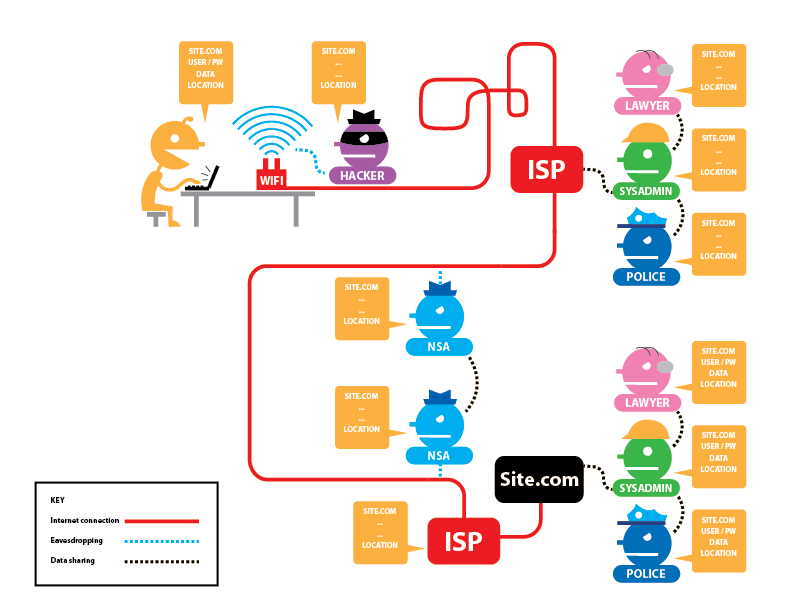
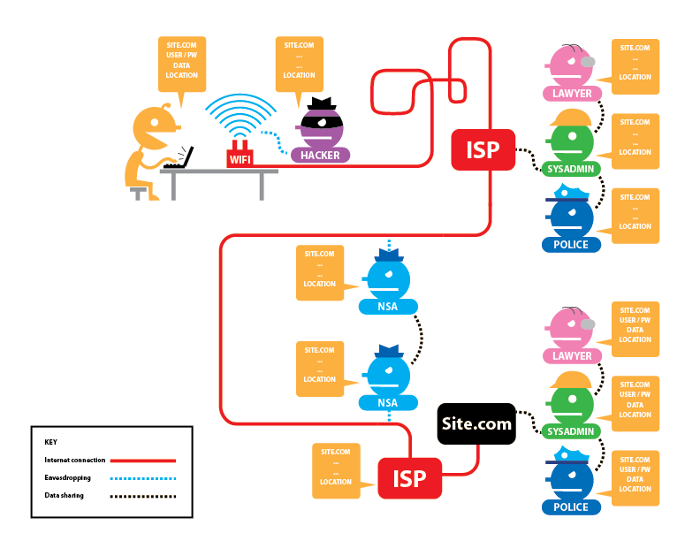
Finalizing slides. Adding communication diagrams.

diff --git a/src/slides.md b/src/slides.md
@@ -18,9 +18,24 @@
 
 ---
 
+# Story 1
+
+
+---
+
+# Story 2
+
+---
+
 ## Satyendra Dubey
 
 .center[![Satyendra Dubey](images/satyendra_dubey.jpg)]
+
+
+---
+
+# Story 3
+
 
 ---
 
@@ -28,34 +43,34 @@
 
 .center[![State Bank of India](images/sbi_bank.jpg)]
 
+
 ---
 
-## No Tor No HTTPS
+## HTTP ❌ HTTPS ❌
 
 ![No Tor No HTTPS](images/no_tor_no_https.png)
 
 ---
 
-## No Tor Yes HTTPS
+## HTTP ❌ HTTPS ✔
 
 ![No Tor Yes HTTPS](images/no_tor_yes_https.png)
 
 
 ---
 
-## Yes Tor No HTTPS
+## Tor ✔ HTTPS ❌
 
 ![Yes Tor No HTTPS](images/yes_tor_no_https.png)
 
 
 ---
 
-## Yes Tor Yes HTTPS
+## Tor ✔ HTTPS ✔
 
 ![Yes Tor Yes HTTPS](images/yes_tor_yes_https.png)
 
 
----
 ---
 
 # History 📚
@@ -66,9 +81,7 @@
 
 .center[![U.S. Naval Research Laboratory](images/us_naval_research_laboratory.jpg)]
 
----
-### Initial Employees
-
+* Initial Employees
   * David Goldschlag
   * Mike Reed
   * Paul Syverson
@@ -125,9 +138,13 @@ decade](images/relays-and-bridges-in-last-decade.png)
 
 ![Onion addresses in last decase](images/onion-addresses-in-last-decade.png)
 
+
+---
+# Components of Tor 🔮
+
 ---
 
-## Tor Relays
+## Tor Relays 🌀
 
 * Entry node (Guard node)
 
@@ -153,35 +170,55 @@ decade](images/relays-and-bridges-in-last-decade.png)
 
   * Knows what is requested
 
-* List of relays
+* List of relays are publicly available
 
 
 ---
 
 ## Diagram of Tor relays
 
-![Tor network](images/tor_circuit.png)
+.center[![Tor network](images/tor_circuit.png)]
+
 
 ---
 
-## Bridge
+## Bridge 📡
 
 * A special type of Tor relays that is not publicly listed
 
-* Helps in connecting to Tor network if it is blocked by ISP or any level
+* Helps in connecting to Tor network if Tor is blocked by ISP or any level
 
 * Bridges are geo distributed located
 
 * It is difficult to get addresses of all the bridges
 
+
 ---
 
-## Onion routing
+## Onion routing 🛡
 
-* Client builds circuit first
+![Onion routing Communication 1](images/communication_1.png)
 
-* Generates three individual shared symmetric keys for all three relays in
-  circuit.
+
+---
+
+## Onion routing 🛡
+
+![Onion routing Communication 2](images/communication_2.png)
+
+
+---
+
+## Onion routing 🛡
+
+![Onion routing Communication 3](images/communication_3.png)
+
+
+---
+
+## Onion routing 🛡
+
+![Onion routing Communication 3](images/communication_4.png)
 
 ---
 
@@ -202,33 +239,41 @@ decade](images/relays-and-bridges-in-last-decade.png)
 * Requests is routed only through Tor relays
 
 
+---
 
-## Myths of Tor
+# Myths of Tor
 
 
 ---
 
-## I am just watching YouTube videos. Should I use Tor?
+# I don't bother if someone is using my data because I am not doing anything illegal
 
 
 ---
 
-## If I use Tor, I am not hackable
-
----
-
-## I don't bother if someone is using my data because I am not doing anything illegal
+# Tor is mostly used by Hackers. I will get hacked If I use Tor
 
 
 ---
 
-## Tor is funded by U.S. Government. I am sure they knows hidden ways to crack Tor
+# I am watching YouTube videos. Still I should use Tor?
+
 
 ---
 
-## I should not run a relay otherwise police will come at my home
+# Running a Tor relay invites a Police investigation
+
 
 ---
 
-## Tor is mostly used by Hackers
+# If I use Tor, I am not hackable
 
+
+---
+
+# Tor is funded by U.S. Government. I am sure they knows hidden ways to crack Tor
+
+
+---
+
+# Tor or not Tor?
